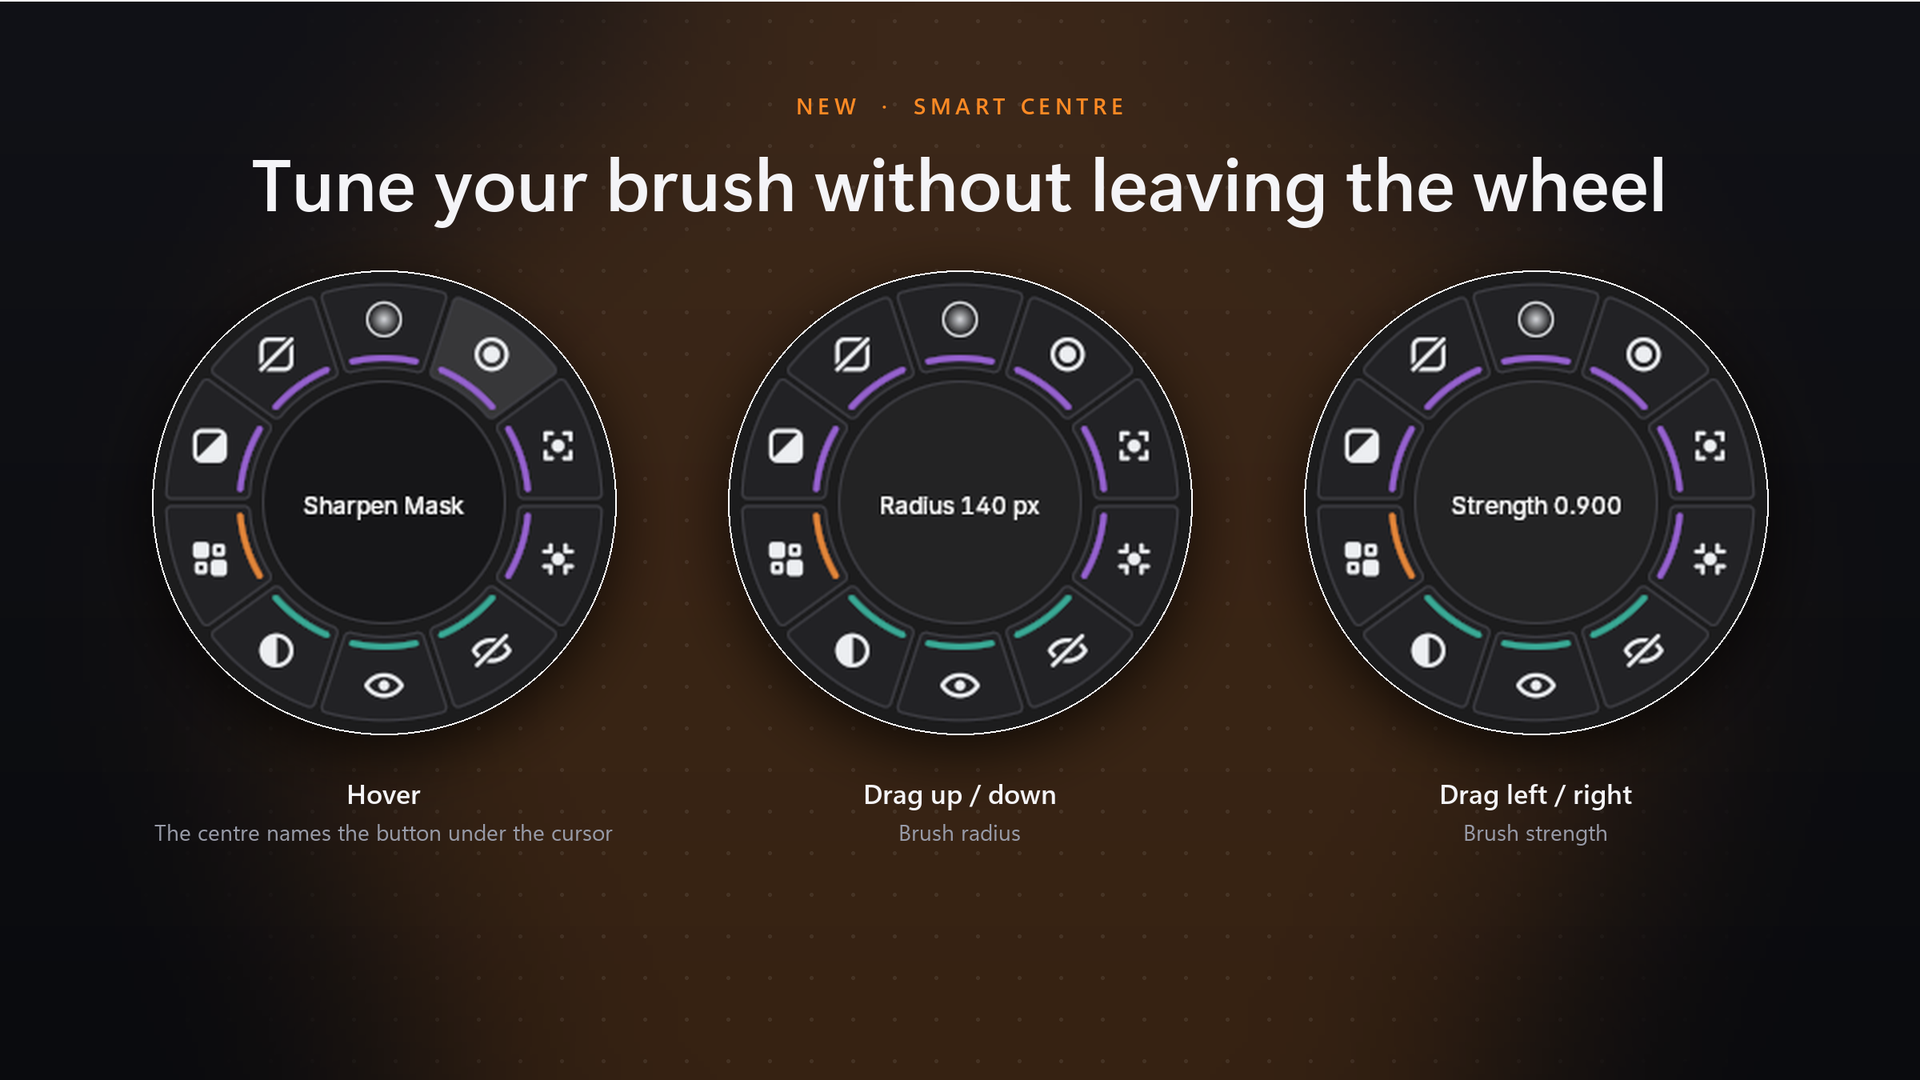
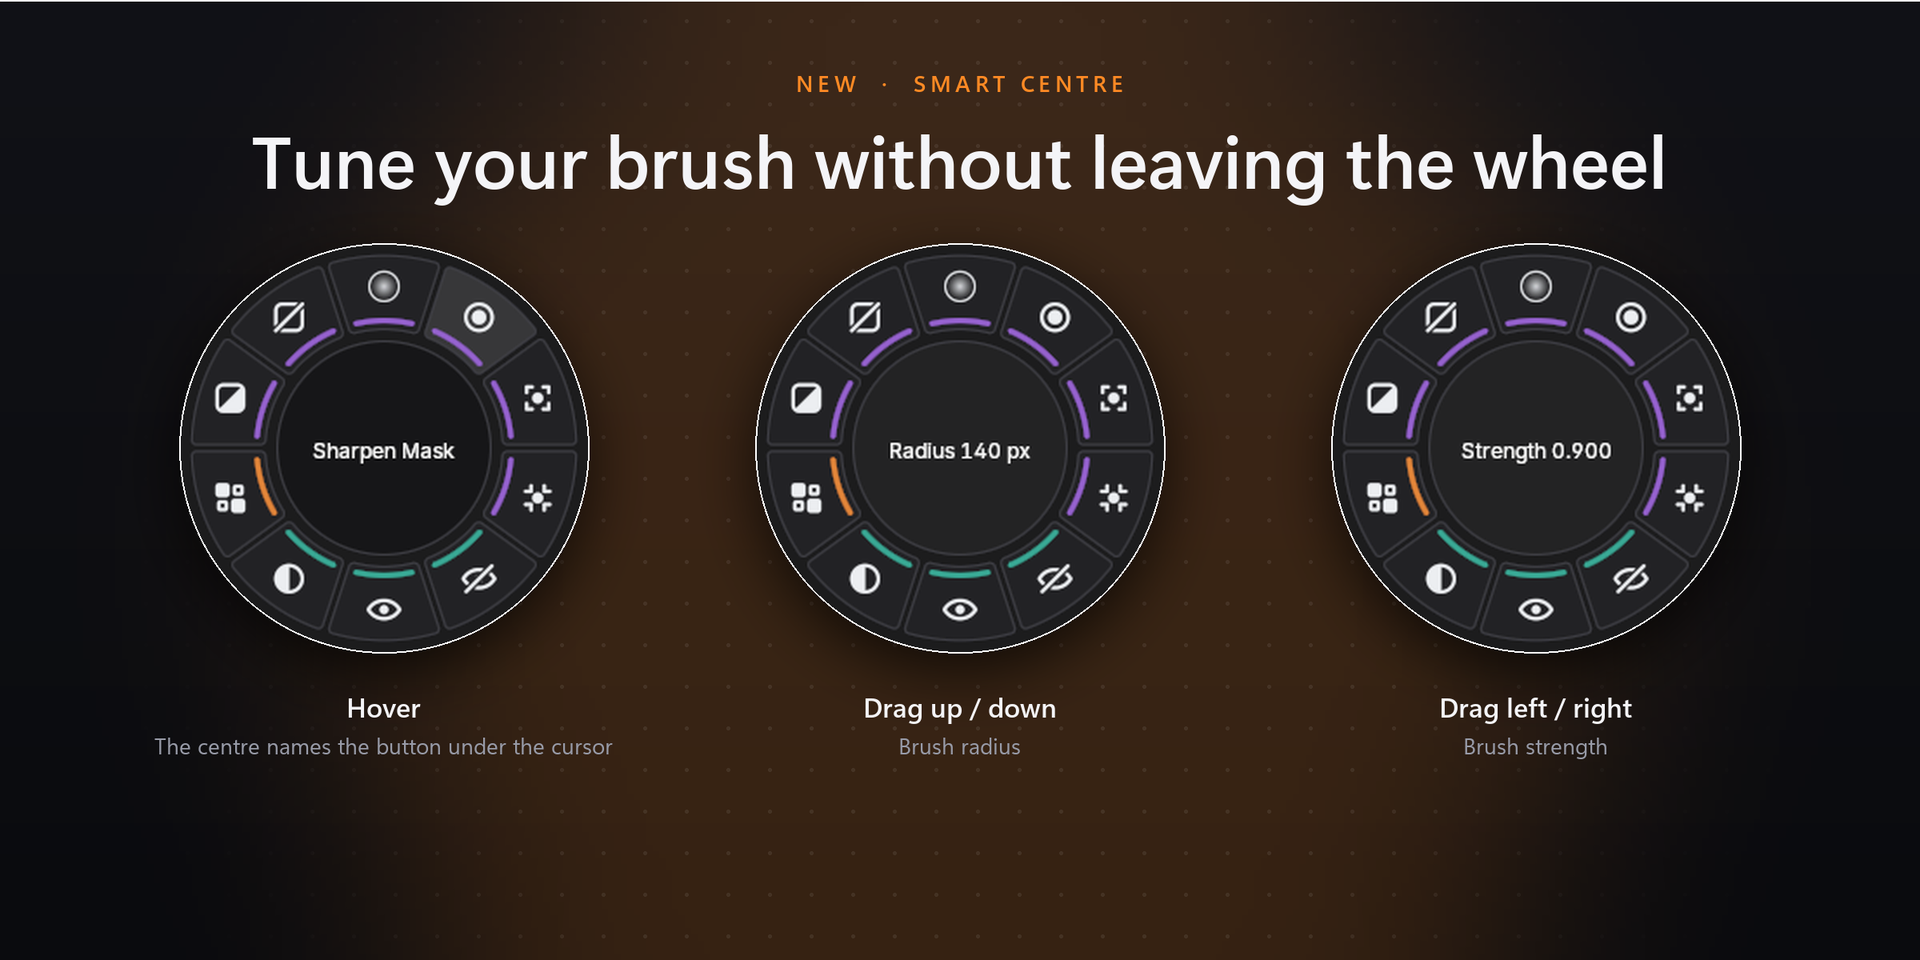
Store: gallery slides laid out at 2:1 (1920x960), as Superhive's gallery requires

diff --git a/store/tools/v2_graphics.py b/store/tools/v2_graphics.py
@@ -570,110 +570,109 @@ for n, title in enumerate(CHAPTERS, 1):
     d.text((P(224), P(66)), title, font=F_H1, fill=TEXT)
     save(img, f"v2_ch{n:02d}.png")
 
-# ===== Gallery: 16:9 slides (1920x1080, square corners) for the stores' image galleries ============================
-GH = 675  # 1200 x 675 layout = 16:9
+# ===== Gallery: 2:1 slides (1920x960, square corners) for the stores' image galleries (Superhive takes 2:1 only) ====
+GH = 600  # 1200 x 600 layout = 2:1
 GALLERY_W = 1920
 
 
 def save_slide(img, name):
-    img.convert("RGB").resize((GALLERY_W, GALLERY_W * 9 // 16), LANCZOS).save(os.path.join(OUT, name), optimize=True)
+    img.convert("RGB").resize((GALLERY_W, GALLERY_W // 2), LANCZOS).save(os.path.join(OUT, name), optimize=True)
     print("saved", name)
 
 
-# 1. Cover
-img = canvas(GH, spots=((850, 360, 420), (80, 0, 240)))
+# 1. Cover (the featured image's composition)
+img = canvas(GH, spots=((820, 330, 400), (80, 0, 240)))
 d = ImageDraw.Draw(img)
-chip(img, 72, 150, "NEW  \u00b7  VERSION 2.0", accent=True, f=F_NUM)
-d.text((P(72), P(196)), "Sculpt-Paint", font=F_HERO, fill=TEXT)
-d.text((P(72), P(278)), "Wheel 2", font=F_HERO, fill=ACCENT)
-para(d, 72, 388, "Your brushes, one keypress away. Hold Space, flick, keep working.", F_SUB, MUTED, 430, 1.5)
-y = 470
+chip(img, 72, 112, "NEW  \u00b7  VERSION 2.0", accent=True, f=F_NUM)
+d.text((P(72), P(156)), "Sculpt-Paint", font=F_HERO, fill=TEXT)
+d.text((P(72), P(238)), "Wheel 2", font=F_HERO, fill=ACCENT)
+para(d, 72, 346, "Your brushes, one keypress away. Hold Space, flick, keep working.", F_SUB, MUTED, 440, 1.5)
+y = 424
 for t_ in ("Every sculpt and paint mode", "10 themes, or make your own", "Up to 34 brushes on one page"):
     d.ellipse((P(74), P(y + 9), P(82), P(y + 17)), fill=ACCENT)
     d.text((P(96), P(y)), t_, font=F_LABEL, fill=TEXT)
-    y += 36
-place_wheel(img, "modes", "texture", 1022, 178, 276)
-place_wheel(img, "modes", "weight", 1040, 506, 228, with_pill=False)
-place_wheel(img, "modes", "sculpt", 752, 368, 388, glow=True)
+    y += 34
+place_wheel(img, "modes", "texture", 1022, 160, 262)
+place_wheel(img, "modes", "weight", 1040, 462, 220, with_pill=False)
+place_wheel(img, "modes", "sculpt", 755, 318, 380, glow=True)
 save_slide(img, "g01_cover.png")
 
 # 2. Modes
-img = canvas(GH, spots=((600, 380, 480),))
-y = header(img, 600, 44, "EVERY PAINT MODE", "Nine wheels, ready out of the box", center=True)
+img = canvas(GH, spots=((600, 340, 440),))
+y = header(img, 600, 34, "EVERY PAINT MODE", "Nine wheels, ready out of the box", center=True)
 d = ImageDraw.Draw(img)
 for i, (mid, name) in enumerate(MODES):
     row, col = divmod(i, 5)
     n_in_row = 5 if row == 0 else 4
     cx = 600 + (col - (n_in_row - 1) / 2) * 214
-    cy = y + 92 + row * 238
+    cy = y + 78 + row * 212
     info = json.load(open(os.path.join(CAP, "modes", f"{mid}.json")))
-    place_wheel(img, "modes", mid, cx, cy, 170 * info["radius"] / 210, with_pill=False)
-    d.text((P(cx), P(cy + 98)), name, font=F_SMALL, fill=TEXT, anchor="ma")
+    place_wheel(img, "modes", mid, cx, cy, 148 * info["radius"] / 210, with_pill=False)
+    d.text((P(cx), P(cy + 86)), name, font=F_SMALL, fill=TEXT, anchor="ma")
 save_slide(img, "g02_modes.png")
 
 # 3. Smart centre
-img = canvas(GH, spots=((600, 380, 420),))
-y = header(img, 600, 56, "NEW  \u00b7  SMART CENTRE", "Tune your brush without leaving the wheel", center=True)
+img = canvas(GH, spots=((600, 340, 400),))
+y = header(img, 600, 42, "NEW  \u00b7  SMART CENTRE", "Tune your brush without leaving the wheel", center=True)
 d = ImageDraw.Draw(img)
 for i, (name, title, sub) in enumerate([("sculpt_hover", "Hover", "The centre names the button under the cursor"),
                                         ("sculpt_drag_radius", "Drag up / down", "Brush radius"),
                                         ("sculpt_drag_strength", "Drag left / right", "Brush strength")]):
     cx = 240 + i * 360
-    zoom_circle(img, "centre", name, cx, y + 150, 290, 118)
-    label(d, cx, y + 320, title, sub)
+    zoom_circle(img, "centre", name, cx, y + 130, 256, 118)
+    label(d, cx, y + 280, title, sub)
 save_slide(img, "g03_centre.png")
 
 # 4. Themes
-img = canvas(GH, spots=((600, 380, 520),))
-y = header(img, 600, 44, "NEW  \u00b7  THEMES", "Ten looks built in. Or make your own.", center=True)
+img = canvas(GH, spots=((600, 340, 480),))
+y = header(img, 600, 34, "NEW  \u00b7  THEMES", "Ten looks built in. Or make your own.", center=True)
 d = ImageDraw.Draw(img)
 for i, n in enumerate(THEMES):
     cx = 156 + (i % 5) * 222
-    cy = y + 92 + (i // 5) * 238
-    place_wheel(img, "themes", "sculpt_" + n.lower().replace(" ", "_"), cx, cy, 178, with_pill=False)
-    d.text((P(cx), P(cy + 100)), n, font=F_SMALL, fill=TEXT, anchor="ma")
+    cy = y + 80 + (i // 5) * 212
+    place_wheel(img, "themes", "sculpt_" + n.lower().replace(" ", "_"), cx, cy, 158, with_pill=False)
+    d.text((P(cx), P(cy + 88)), n, font=F_SMALL, fill=TEXT, anchor="ma")
 save_slide(img, "g04_themes.png")
 
 # 5. Double ring
-img = canvas(GH, spots=((820, 400, 400),))
-y = header(img, 72, 56, "NEW  \u00b7  DOUBLE RING", "Big brush sets, one glance",
+img = canvas(GH, spots=((830, 320, 380),))
+y = header(img, 72, 52, "NEW  \u00b7  DOUBLE RING", "Big brush sets, one glance",
            "A set that doesn't fit on one ring gets a second, staggered ring.", max_w=420)
 d = ImageDraw.Draw(img)
-k = 500 / (2 * two["radius"])
-d.text((P(72), P(y + 20)), "34", font=F_STAT, fill=ACCENT)
-d.text((P(72), P(y + 100)), "brushes on one page", font=F_SUB, fill=TEXT)
-d.text((P(72), P(y + 136)), "instead of 14 with one ring", font=F_SMALL, fill=MUTED)
-place_wheel(img, "double", "big_two_rings", 840, 380, 500, glow=True)
+d.text((P(72), P(y + 10)), "34", font=F_STAT, fill=ACCENT)
+d.text((P(72), P(y + 90)), "brushes on one page", font=F_SUB, fill=TEXT)
+d.text((P(72), P(y + 126)), "instead of 14 with one ring", font=F_SMALL, fill=MUTED)
+place_wheel(img, "double", "big_two_rings", 840, 300, 470, glow=True)
 save_slide(img, "g05_double_ring.png")
 
 # 6. Color
-img = canvas(GH, spots=((330, 400, 300), (870, 400, 300)))
-y = header(img, 600, 56, "COLOR, BUILT IN", "Pick colors without leaving the wheel", center=True)
+img = canvas(GH, spots=((330, 350, 280), (870, 350, 280)))
+y = header(img, 600, 42, "COLOR, BUILT IN", "Pick colors without leaving the wheel", center=True)
 d = ImageDraw.Draw(img)
 for i, (mid, name) in enumerate([("vertex", "Vertex Paint"), ("gp-draw", "Grease Pencil Draw")]):
     cx = 330 + i * 540
-    place_wheel(img, "modes", mid, cx, y + 190, 360, with_pill=False)
-    label(d, cx, y + 392, name)
+    place_wheel(img, "modes", mid, cx, y + 168, 310, with_pill=False)
+    label(d, cx, y + 342, name)
 save_slide(img, "g06_color.png")
 
 # 7. Theme tab
-img = canvas(GH, spots=((980, 420, 360),))
-y = header(img, 72, 48, "THEME TAB", "Every color, edited live")
-framed(img, os.path.join(CAP, "prefs", "prefs_theme_modified.png"), (236, 330, 1574, 1000), 72, y - 6, 700)
-place_wheel(img, "themes", "sculpt_midnight", 960, 400, 400, with_pill=False, glow=True)
+img = canvas(GH, spots=((980, 340, 340),))
+y = header(img, 72, 40, "THEME TAB", "Every color, edited live")
+framed(img, os.path.join(CAP, "prefs", "prefs_theme_modified.png"), (236, 330, 1574, 1000), 72, y - 6, 660)
+place_wheel(img, "themes", "sculpt_midnight", 970, 330, 380, with_pill=False, glow=True)
 save_slide(img, "g07_theme_tab.png")
 
 # 8. Make it yours
-img = canvas(GH, spots=((100, 600, 380),))
-y = header(img, 72, 64, "MAKE IT YOURS", "Your brushes, your buttons, your look")
-cards(img, y + 24, [
+img = canvas(GH, spots=((100, 560, 360),))
+y = header(img, 72, 48, "MAKE IT YOURS", "Your brushes, your buttons, your look")
+cards(img, y + 12, [
     ("Brush sets", "Any brush asset, your own included. Switch sets right from the wheel."),
     ("Custom buttons", "Panels, menus, operators, toggles or your own Python scripts."),
     ("Your icons", "Pick from the bundled icon set or load any image."),
     ("Tints", "Color buttons by type or one by one: fill, outline, icon or a strip."),
     ("Themes", "Ten built in, plus every theme you save."),
     ("Per mode", "Every mode keeps its own sets, ready when you switch."),
-], cols=3, h=205)
+], cols=3, h=178)
 save_slide(img, "g08_yours.png")
 
 # ===== Featured image: 2:1 (2400x1200), the main image's composition for the store's featured slot ================

diff --git a/store/README.md b/store/README.md
@@ -6,7 +6,7 @@ Marketing material for the store listings of Sculpt-Paint Wheel. This folder isn
 |---|---|---|
 | [Superhive](superhive/) | https://superhivemarket.com/products/sculpt-paint-wheel | `description.html` (product description), `docs.html` (documentation tab, generated from `DOCS.md` by `build_docs.py`) |
 | [Payhip](payhip/) | | `description.html` (product description; the user guide ships as a PDF with the product) |
-| [media](media/) | | Shared by both: `images/` (page graphics), `gallery/` (16:9 gallery images), `videos/` (mp4 + animated webp) |
+| [media](media/) | | Shared by both: `images/` (page graphics), `gallery/` (2:1 gallery images, as Superhive requires), `videos/` (mp4 + animated webp) |
 
 ## Publishing
 
@@ -34,7 +34,7 @@ Everything is made from the real add-on running in Blender 5.3:
    ```
    blender --factory-startup --enable-event-simulate --window-geometry 0 0 1920 1200 --python store/tools/capture_v2.py -- <captures dir> <part>
    ```
-2. **Graphics**: `python store/tools/v2_graphics.py <captures dir> <output dir>` renders the page images `v2_01_hero.png` ... `v2_14_anatomy.png`, the chapter banners `v2_ch01.png` ... `v2_ch10.png` (1600 px wide, rounded transparent corners) and the gallery slides `g01_cover.png` ... `g08_yours.png` (1920x1080). Copy them to `media/images/` and `media/gallery/`.
+2. **Graphics**: `python store/tools/v2_graphics.py <captures dir> <output dir>` renders the page images `v2_01_hero.png` ... `v2_14_anatomy.png`, the chapter banners `v2_ch01.png` ... `v2_ch10.png` (1600 px wide, rounded transparent corners) and the gallery slides `g01_cover.png` ... `g08_yours.png` (1920x960, 2:1) plus `featured_2x1.png` (2400x1200). Copy them to `media/images/` and `media/gallery/`.
 3. **Videos**: `python store/tools/live_montage.py <captures dir>/themes_live <output dir> themes` and `... /tints_live <output dir> tints` (needs ffmpeg) edit the live recordings into `v2_themes` / `v2_tints`: an animated cursor working the real Preferences, the wheel updating beside it, captions and title cards. `.mp4` (1920x1080) for the galleries, animated `.webp` for the pages. Copy them to `media/videos/`.
 
 ## Builds
